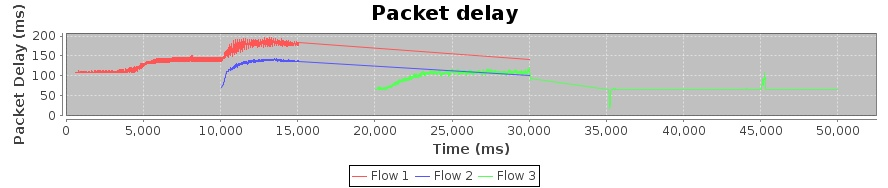
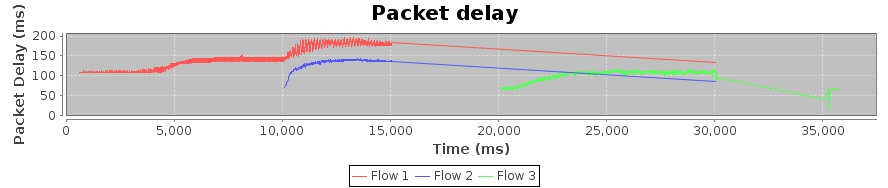
readme

diff --git a/src/com/ricketts/Flow.java b/src/com/ricketts/Flow.java
@@ -15,7 +15,7 @@ public class Flow {
      * The Starting Window Size and what we drop to at an RTO
      */
     public final static Integer initWindowSize = 1;
-    public final static Integer timeoutLength = 1000;
+    public final static Integer timeoutLength = 600;
 
     public Integer windowSize;
 
